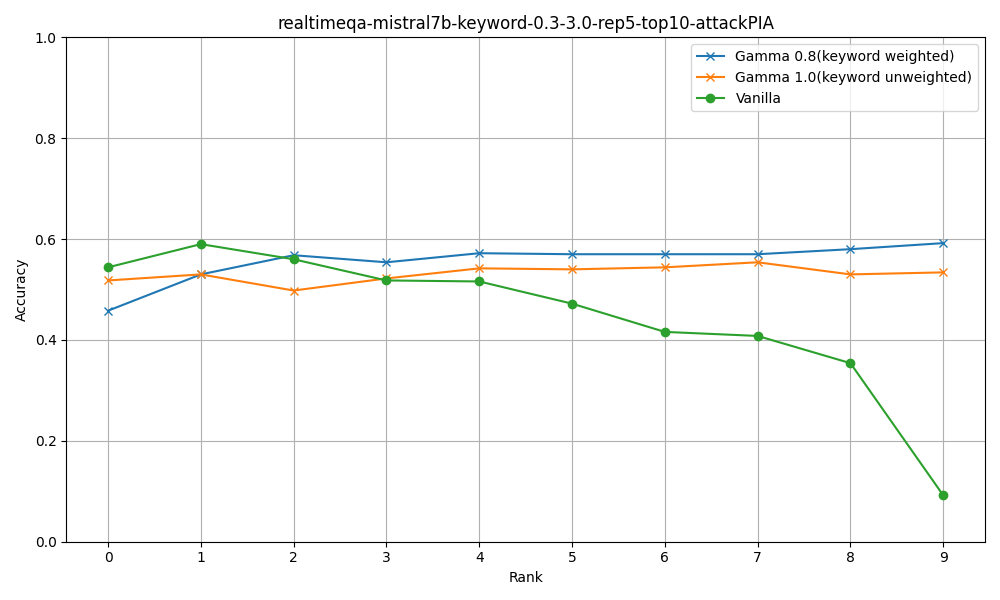
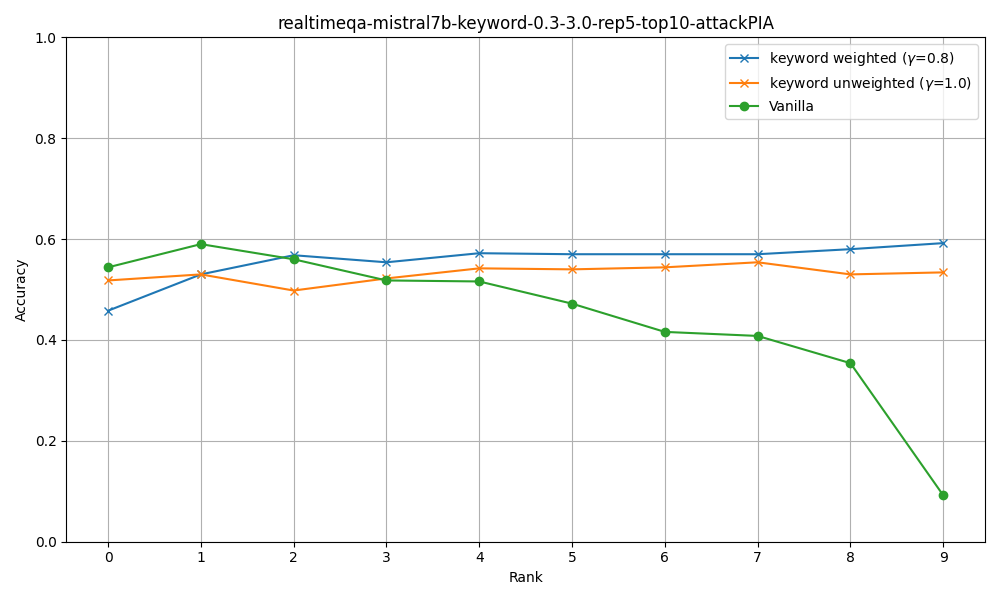
update robustness and accuracy plots

Changed region(s): [[0.682, 0.09, 0.992, 0.21]]

diff --git a/plot_robustness.py b/plot_robustness.py
@@ -12,6 +12,11 @@ exp_list = [
 
     "realtimeqa-gpt-4o-keyword-0.3-3.0-rep2-top10-attacknone",
     "realtimeqa-gpt-4o-keyword-0.3-3.0-rep2-top10-attackPIA",
+    "realtimeqa-gpt-4o-keyword-0.3-3.0-rep2-top10-attackPoison",
+
+    "realtimeqa-llama3b-sampling-rep5-top10-attacknone",
+    "realtimeqa-llama3b-sampling-rep5-top10-attackPIA",
+    "realtimeqa-llama3b-sampling-rep5-top10-attackPoison",
 ]
 
 for exp in exp_list:
@@ -29,7 +34,19 @@ for exp in exp_list:
     for gamma in df["gamma"].unique():
         subset = df[df["gamma"] == gamma]
         
-        label_defended = f"Gamma {gamma} (new)" if gamma != 1 else f"Gamma {gamma} (RobustRAG)"
+        label_defended = ""
+        if gamma == 1:
+            if "sampling" not in exp:
+                label_defended += "keyword unweighted"
+            else:
+                label_defended += "sampling unweighted"
+        elif gamma != 1:
+            if "sampling" not in exp:
+                label_defended += "keyword weighted"
+            else:
+                label_defended += "sampling weighted"
+        label_defended += f" ($\gamma$={gamma})"
+
         plt.plot(subset["rank"], [1 - asr for asr in subset["defended_asr"]], marker='x', label=label_defended)
         
         if gamma == 1:
@@ -38,7 +55,7 @@ for exp in exp_list:
 
     plt.xlabel("Rank")
     plt.ylabel("Robustness (1 - ASR)")
-    plt.ylim([0.5,1])
+    plt.ylim([0,1])
     plt.xticks([0,1,2,3,4,5,6,7,8,9])
     plt.title(exp)
     plt.legend()

diff --git a/plot_accuracy.py b/plot_accuracy.py
@@ -12,6 +12,11 @@ exp_list = [
 
     "realtimeqa-gpt-4o-keyword-0.3-3.0-rep2-top10-attacknone",
     "realtimeqa-gpt-4o-keyword-0.3-3.0-rep2-top10-attackPIA",
+    "realtimeqa-gpt-4o-keyword-0.3-3.0-rep2-top10-attackPoison",
+
+    "realtimeqa-llama3b-sampling-rep5-top10-attacknone",
+    "realtimeqa-llama3b-sampling-rep5-top10-attackPIA",
+    "realtimeqa-llama3b-sampling-rep5-top10-attackPoison",
 ]
 
 for exp in exp_list:
@@ -27,7 +32,19 @@ for exp in exp_list:
     for gamma in df["gamma"].unique():
         subset = df[df["gamma"] == gamma]
         
-        label_defended = f"Gamma {gamma} (new)" if gamma != 1 else f"Gamma {gamma} (RobustRAG)"
+        label_defended = ""
+        if gamma == 1:
+            if "sampling" not in exp:
+                label_defended += "keyword unweighted"
+            else:
+                label_defended += "sampling unweighted"
+        elif gamma != 1:
+            if "sampling" not in exp:
+                label_defended += "keyword weighted"
+            else:
+                label_defended += "sampling weighted"
+        label_defended += f" ($\gamma$={gamma})"
+
         plt.plot(subset["rank"], subset["defended_acc"], marker='x', label=label_defended)
     
         if gamma == 1:

diff --git a/eval_accuracy_robustness.py b/eval_accuracy_robustness.py
@@ -14,13 +14,9 @@ exp_list = [
     "realtimeqa-gpt-4o-keyword-0.3-3.0-rep2-top10-attackPIA",
     "realtimeqa-gpt-4o-keyword-0.3-3.0-rep2-top10-attackPoison",
 
-    #"realtimeqa-llama3b-sampling-rep5-top10-attacknone",
-    #"realtimeqa-llama3b-sampling-rep5-top10-attackPIA",
-    #"realtimeqa-llama3b-sampling-rep5-top10-attackPoison",
-
-    #"simpleqa-llama3b-sampling-rep5-top10-attacknone",
-    #"simpleqa-llama3b-sampling-rep5-top10-attackPIA",
-    #"simpleqa-llama3b-sampling-rep5-top10-attackPoison",
+    "realtimeqa-llama3b-sampling-rep5-top10-attacknone",
+    "realtimeqa-llama3b-sampling-rep5-top10-attackPIA",
+    "realtimeqa-llama3b-sampling-rep5-top10-attackPoison",
 ]
 
 for exp in exp_list:
